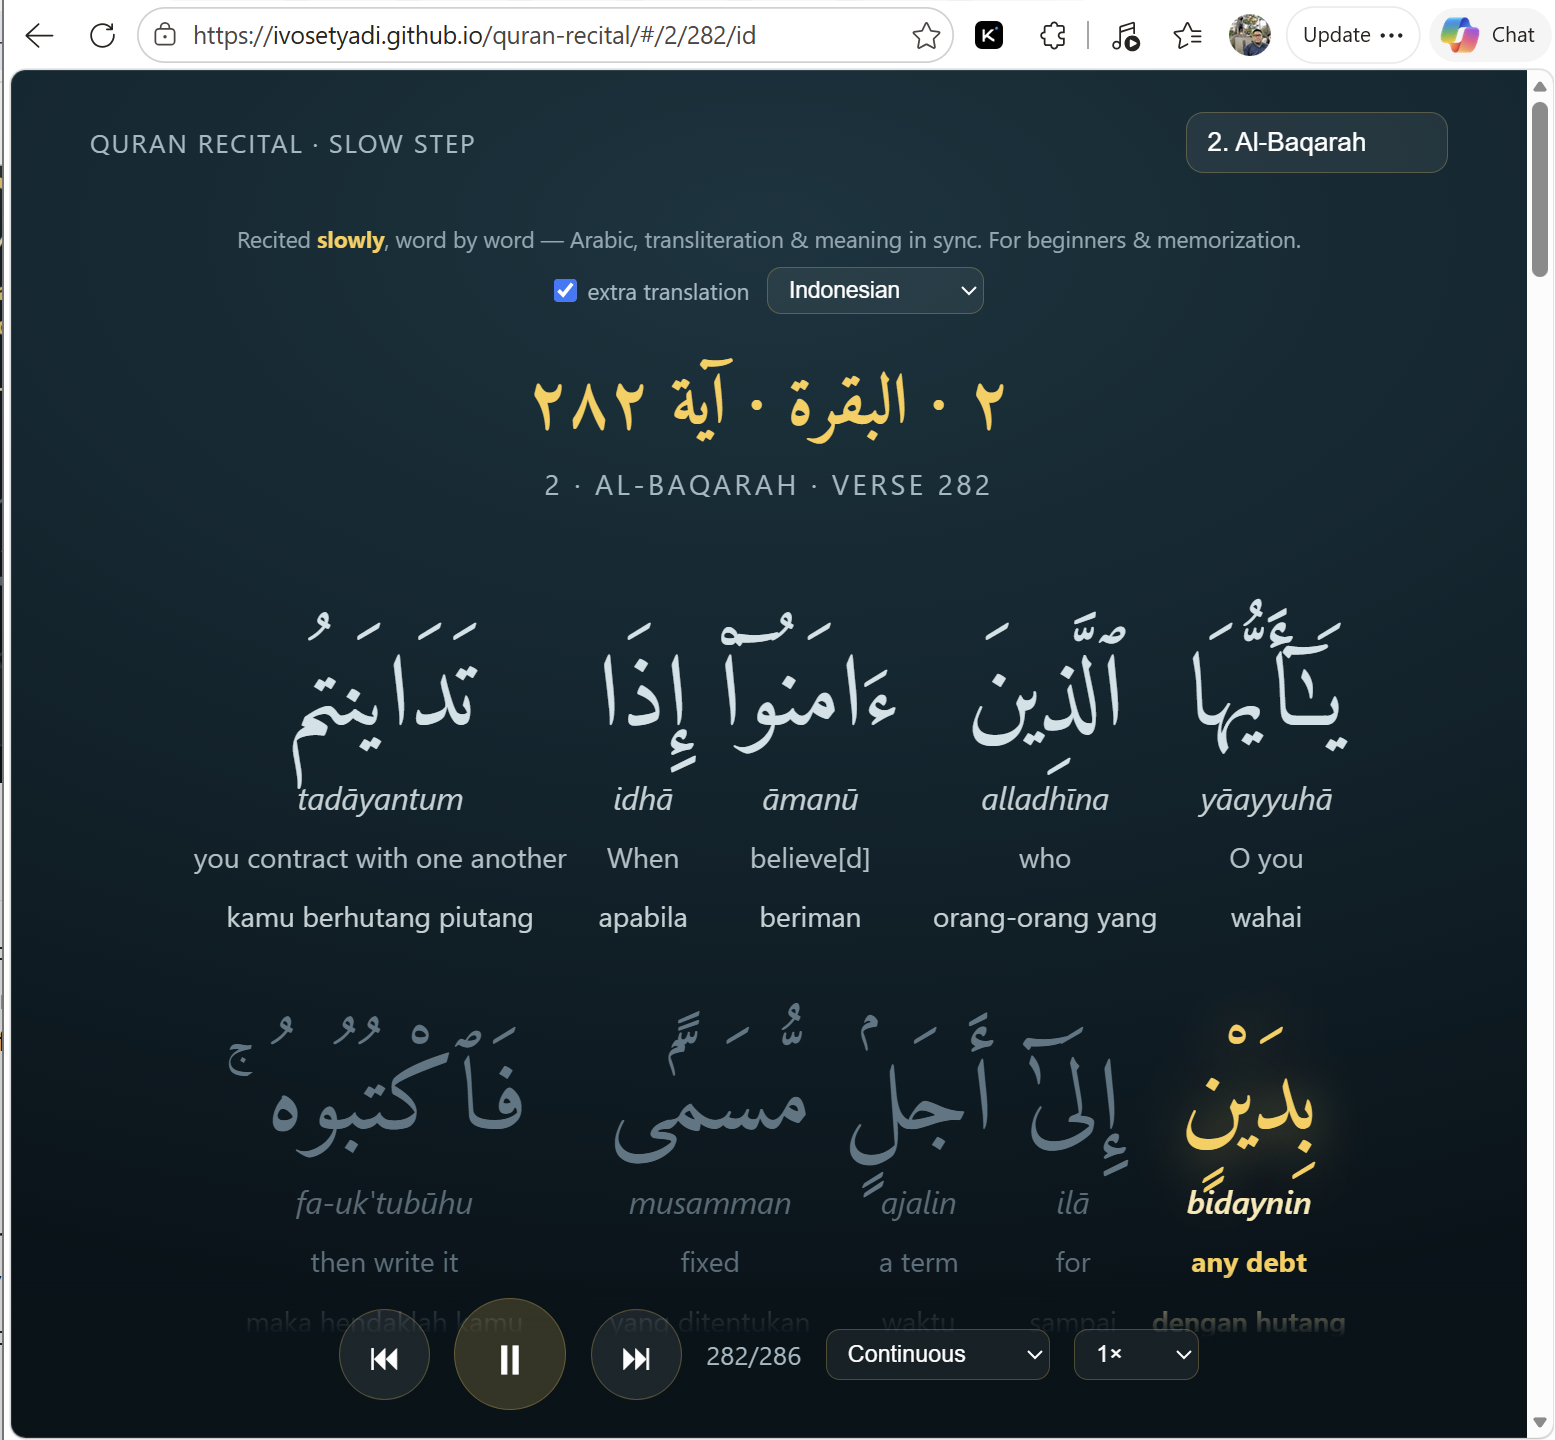
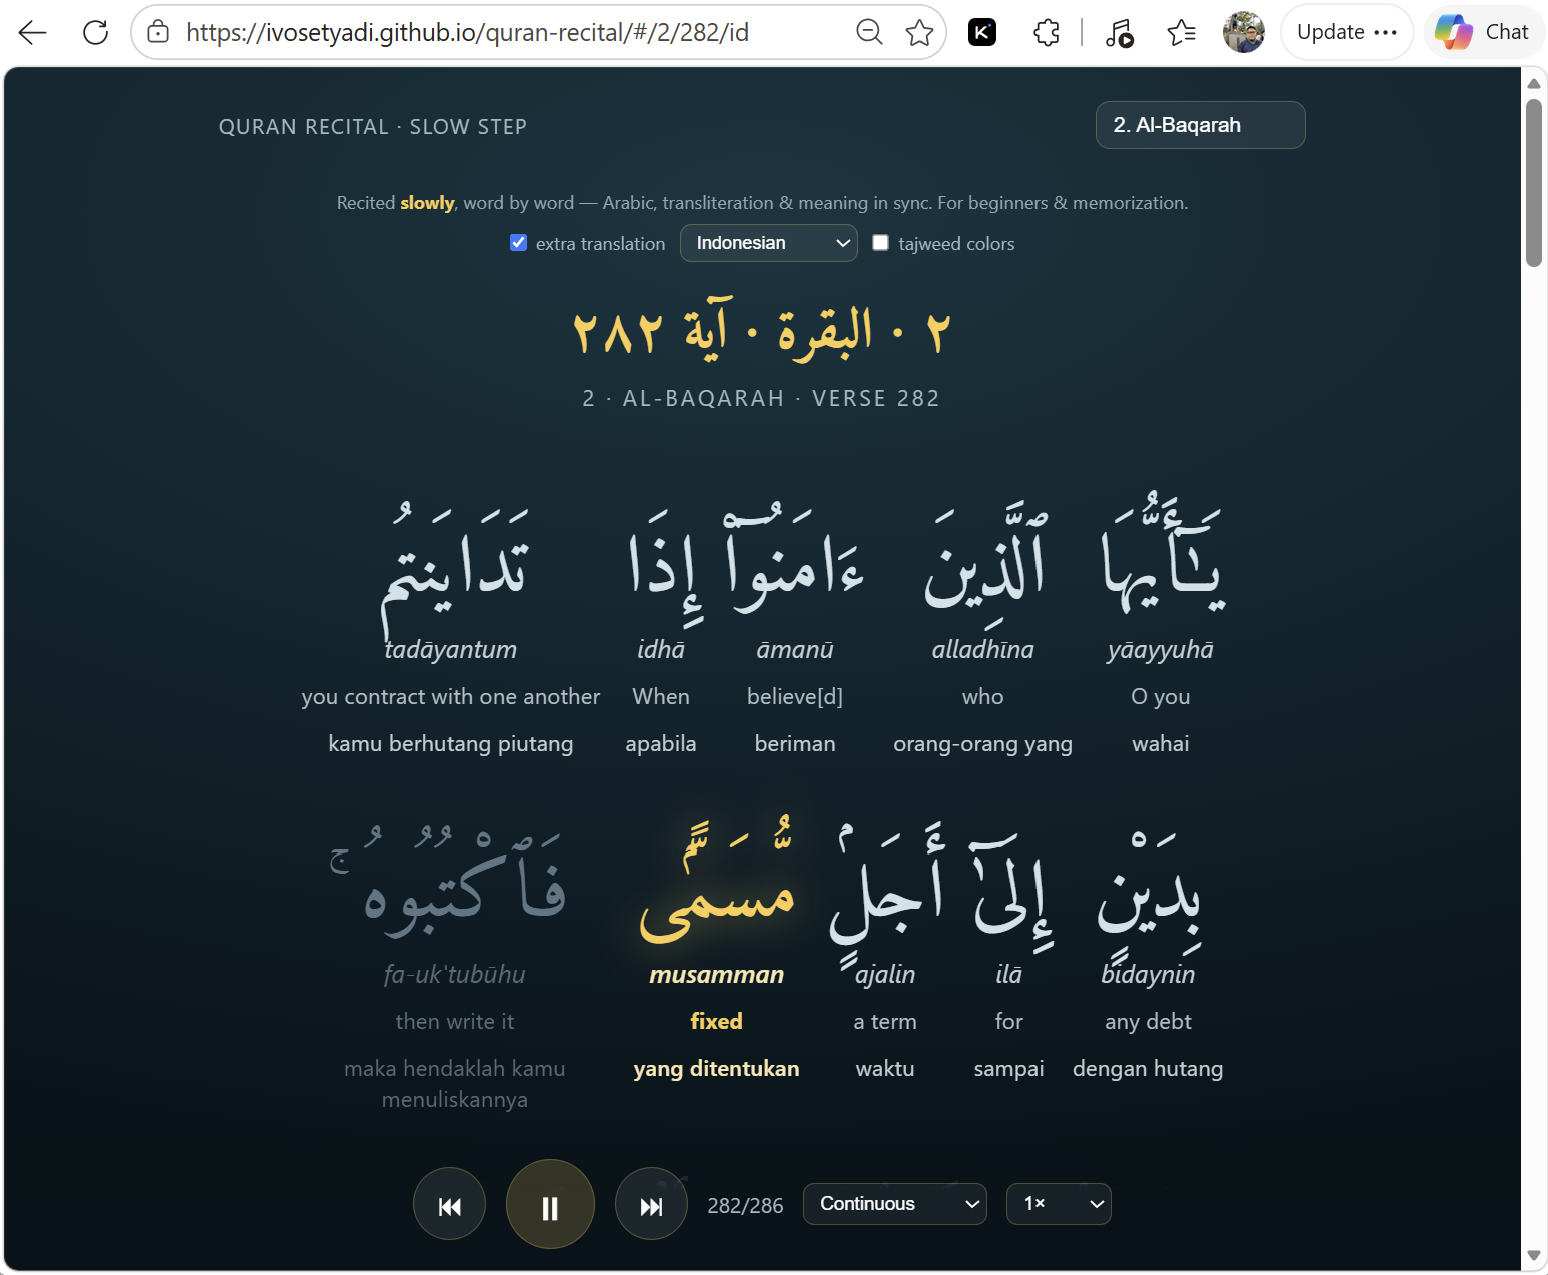
docs: tajweed wording in README; hero screenshot (no tajweed) + tajweed screenshot after the tajweed description

diff --git a/README.md b/README.md
@@ -1,32 +1,42 @@
 # Quran Recital — Slow Step
 
 Slow, word-by-word Quran recitation with **synced highlighting**. Each Arabic word shows its
-**transliteration** and **English meaning** directly beneath it (interlinear), and lights up
-as it is recited — built for learning and memorization (hifz).
+**transliteration** and **meaning** directly beneath it (interlinear) and lights up as it is
+recited — with optional **tajweed colour-coding** and **extra translations**. Built for
+learning and memorization (hifz).
 
 Click play on a surah and the page recites it slowly, lighting up each word as it's read.
 Tap any word to jump to it. All 114 surahs. No app, no download — it runs in the browser.
 
 **Live:** https://ivosetyadi.github.io/quran-recital/
 
-![Quran Recital — Slow Step: interlinear word-by-word with Indonesian extra translation](docs/screenshot.png)
+![Quran Recital — Slow Step: interlinear word-by-word with Indonesian translation](docs/screenshot.png)
 
 ## Features
 - Interlinear word-by-word highlight (Arabic + transliteration + meaning) synced to the audio
+- **Tajweed colours** — optional colour-coding of the Arabic by recitation rule (ghunnah,
+  ikhfa, qalqalah, iqlab, madd, silent letters…) with a legend; the recited word is boxed so
+  the colours stay visible
 - Optional **extra per-word translation** (Indonesian, Urdu, Bengali, Turkish, Persian, Hindi,
-  Tamil) — shown as a 4th line under each word, fetched live from the Quran.com API
+  Tamil) — shown as an extra line under each word
 - All 114 surahs
 - Tap a word to jump & replay from there
 - Previous / next ayah
 - Playback mode: **Continuous** (ayah → ayah → next surah), **Repeat ayah**, **Repeat surah**,
   or **Stop after ayah**
 - Speed control (0.75× / 1× / 1.25×)
-- Deep links to a specific ayah (`#/1/1`)
+- Shareable deep links — surah/ayah, plus language and tajweed state: `#/2/282/id?taj=1`
+
+![Tajweed colours mode — Arabic coloured by recitation rule, the recited word boxed](docs/screenshot-tajweed.png)
 
 ## How it works
 - Pure static site — HTML + CSS + vanilla JS, no backend, no build step.
 - **Text & per-word timing**: bundled JSON in `data/{NNN}.json` (from the
   [Quran.com API](https://quran.com/api)), with a `manifest.json` listing all surahs.
+- **Tajweed**: per-word tajweed markup bundled in `data/tajweed/{NNN}.json` (Quran.com),
+  loaded on demand; coloured via CSS per rule.
+- **Extra translations**: per-word glosses bundled in `data/wbw/{lang}/{NNN}.json`, loaded on
+  demand.
 - **Audio**: streamed from a public CDN, not stored in this repo. Primary
   `cdn.islamic.network` (fast); falls back to everyayah.com / quranicaudio mirror on error.
 - **Sync**: on each animation frame, the active word is the one where
